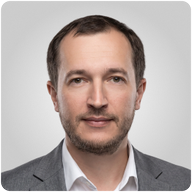
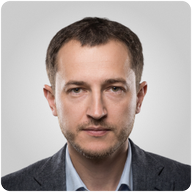
Правки клиента: первое фото Максима, должность Софии, инструкция для Яндекс Почты

diff --git a/podpisi/index.html b/podpisi/index.html
@@ -72,7 +72,7 @@ h2.sec { font: 800 30px/1.1 var(--display); margin: 0 0 6px; }
     <span class="eyebrow">Broccoli Group · email-подпись</span>
     <h1>Установка подписи</h1>
     <p class="lede">Найдите себя в списке, скопируйте подпись и вставьте её в настройках почты.
-      Шаги для Gmail, Outlook и Apple Mail — ниже.</p>
+      Шаги для Gmail, Яндекс Почты, Outlook и Apple Mail — ниже.</p>
     <ul class="steps-mini">
       <li><b>1</b>Скопировать подпись</li>
       <li><b>2</b>Открыть настройки подписи</li>
@@ -81,7 +81,7 @@ h2.sec { font: 800 30px/1.1 var(--display); margin: 0 0 6px; }
   </header>
 
   <div class="people">
-<section class="person"><div class="person-head"><h2>София Кремнева</h2><span>Менеджер проекта</span><button class="copy" type="button" data-slug="sofia-kremneva">Скопировать подпись</button><p class="status" aria-live="polite"></p></div><div class="mail"><div class="sig" id="sig-sofia-kremneva"><div class="fit"><!-- ==== BROCCOLI GROUP · EMAIL SIGNATURE · начало ==== -->
+<section class="person"><div class="person-head"><h2>София Кремнева</h2><span>Менеджер проектов</span><button class="copy" type="button" data-slug="sofia-kremneva">Скопировать подпись</button><p class="status" aria-live="polite"></p></div><div class="mail"><div class="sig" id="sig-sofia-kremneva"><div class="fit"><!-- ==== BROCCOLI GROUP · EMAIL SIGNATURE · начало ==== -->
 <!-- C · Три колонки с разделителями -->
 <table role="presentation" border="0" cellpadding="0" cellspacing="0" width="648" style="width:648px;border-collapse:collapse;border-spacing:0;mso-table-lspace:0pt;mso-table-rspace:0pt;">
   <tr><td colspan="4" class="sig-rule" height="1" style="height:1px;line-height:1px;font-size:1px;border-top:1px solid #DADADA;">&nbsp;</td></tr>
@@ -90,7 +90,7 @@ h2.sec { font: 800 30px/1.1 var(--display); margin: 0 0 6px; }
     <td width="194" valign="middle" style="width:194px;padding:14px 14px 0 12px;">
       <table role="presentation" border="0" cellpadding="0" cellspacing="0" style="border-collapse:collapse;border-spacing:0;mso-table-lspace:0pt;mso-table-rspace:0pt;">
         <tr><td class="sig-n" style="padding:0 0 2px 0;font-family:Georgia,'Times New Roman',serif;font-size:18px;line-height:24px;font-weight:bold;color:#111111;white-space:nowrap;mso-line-height-rule:exactly;">София Кремнева</td></tr>
-        <tr><td class="sig-m" style="padding:0;font-family:Georgia,'Times New Roman',serif;font-size:13px;line-height:18px;color:#6B6B6B;white-space:nowrap;mso-line-height-rule:exactly;">Менеджер проекта</td></tr>
+        <tr><td class="sig-m" style="padding:0;font-family:Georgia,'Times New Roman',serif;font-size:13px;line-height:18px;color:#6B6B6B;white-space:nowrap;mso-line-height-rule:exactly;">Менеджер проектов</td></tr>
       </table>
     </td>
     <td width="256" valign="middle" class="sig-vr" style="width:256px;padding:14px 14px 0 14px;border-left:1px solid #DADADA;"><table role="presentation" border="0" cellpadding="0" cellspacing="0" style="border-collapse:collapse;"><tr><td width="16" valign="middle" style="width:16px;padding:0 8px 6px 0;font-size:0;line-height:0;"><picture><img src="https://nikitamitkin.github.io/broccoli-signature/v3/img-light/icon-phone.png" alt="Телефон" width="16" height="16" border="0" style="display:block;width:16px;min-width:16px;max-width:16px;height:16px;border:0;outline:none;text-decoration:none;"></picture></td><td class="sig-m" valign="middle" style="padding:0 0 6px 0;font-family:Georgia,'Times New Roman',serif;font-size:14px;line-height:20px;color:#6B6B6B;white-space:nowrap;mso-line-height-rule:exactly;"><a href="tel:+79626336891" style="color:#6B6B6B;text-decoration:none;">+7 962 633 68 91</a></td></tr><tr><td width="16" valign="middle" style="width:16px;padding:0 8px 6px 0;font-size:0;line-height:0;"><picture><img src="https://nikitamitkin.github.io/broccoli-signature/v3/img-light/icon-mail.png" alt="Почта" width="16" height="16" border="0" style="display:block;width:16px;min-width:16px;max-width:16px;height:16px;border:0;outline:none;text-decoration:none;"></picture></td><td class="sig-m" valign="middle" style="padding:0 0 6px 0;font-family:Georgia,'Times New Roman',serif;font-size:14px;line-height:20px;color:#6B6B6B;white-space:nowrap;mso-line-height-rule:exactly;"><a href="mailto:sofia.kremneva@broccoli.group" style="color:#6B6B6B;text-decoration:none;">sofia.kremneva@broccoli.group</a></td></tr><tr><td width="16" valign="middle" style="width:16px;padding:0 8px 0px 0;font-size:0;line-height:0;"><picture><img src="https://nikitamitkin.github.io/broccoli-signature/v3/img-light/icon-globe.png" alt="Сайт" width="16" height="16" border="0" style="display:block;width:16px;min-width:16px;max-width:16px;height:16px;border:0;outline:none;text-decoration:none;"></picture></td><td class="sig-m" valign="middle" style="padding:0 0 0px 0;font-family:Georgia,'Times New Roman',serif;font-size:14px;line-height:20px;color:#6B6B6B;white-space:nowrap;mso-line-height-rule:exactly;"><a href="https://broccoli.group/" style="color:#6B6B6B;text-decoration:none;">broccoli.group</a></td></tr></table></td>
@@ -106,7 +106,7 @@ h2.sec { font: 800 30px/1.1 var(--display); margin: 0 0 6px; }
     <td width="194" valign="middle" style="width:194px;padding:14px 14px 0 12px;">
       <table role="presentation" border="0" cellpadding="0" cellspacing="0" style="border-collapse:collapse;border-spacing:0;mso-table-lspace:0pt;mso-table-rspace:0pt;">
         <tr><td class="sig-n" style="padding:0 0 2px 0;font-family:Georgia,'Times New Roman',serif;font-size:18px;line-height:24px;font-weight:bold;color:#111111;white-space:nowrap;mso-line-height-rule:exactly;">София Кремнева</td></tr>
-        <tr><td class="sig-m" style="padding:0;font-family:Georgia,'Times New Roman',serif;font-size:13px;line-height:18px;color:#6B6B6B;white-space:nowrap;mso-line-height-rule:exactly;">Менеджер проекта</td></tr>
+        <tr><td class="sig-m" style="padding:0;font-family:Georgia,'Times New Roman',serif;font-size:13px;line-height:18px;color:#6B6B6B;white-space:nowrap;mso-line-height-rule:exactly;">Менеджер проектов</td></tr>
       </table>
     </td>
     <td width="256" valign="middle" class="sig-vr" style="width:256px;padding:14px 14px 0 14px;border-left:1px solid #DADADA;"><table role="presentation" border="0" cellpadding="0" cellspacing="0" style="border-collapse:collapse;"><tr><td width="16" valign="middle" style="width:16px;padding:0 8px 6px 0;font-size:0;line-height:0;"><picture><source srcset="https://nikitamitkin.github.io/broccoli-signature/v3/img-dark/icon-phone.png" media="(prefers-color-scheme: dark)"><source srcset="https://nikitamitkin.github.io/broccoli-signature/v3/img-light/icon-phone.png" media="(prefers-color-scheme: light)"><img src="https://nikitamitkin.github.io/broccoli-signature/v3/img-light/icon-phone.png" alt="Телефон" width="16" height="16" border="0" style="display:block;width:16px;min-width:16px;max-width:16px;height:16px;border:0;outline:none;text-decoration:none;"></picture></td><td class="sig-m" valign="middle" style="padding:0 0 6px 0;font-family:Georgia,'Times New Roman',serif;font-size:14px;line-height:20px;color:#6B6B6B;white-space:nowrap;mso-line-height-rule:exactly;"><a href="tel:+79626336891" style="color:#6B6B6B;text-decoration:none;">+7 962 633 68 91</a></td></tr><tr><td width="16" valign="middle" style="width:16px;padding:0 8px 6px 0;font-size:0;line-height:0;"><picture><source srcset="https://nikitamitkin.github.io/broccoli-signature/v3/img-dark/icon-mail.png" media="(prefers-color-scheme: dark)"><source srcset="https://nikitamitkin.github.io/broccoli-signature/v3/img-light/icon-mail.png" media="(prefers-color-scheme: light)"><img src="https://nikitamitkin.github.io/broccoli-signature/v3/img-light/icon-mail.png" alt="Почта" width="16" height="16" border="0" style="display:block;width:16px;min-width:16px;max-width:16px;height:16px;border:0;outline:none;text-decoration:none;"></picture></td><td class="sig-m" valign="middle" style="padding:0 0 6px 0;font-family:Georgia,'Times New Roman',serif;font-size:14px;line-height:20px;color:#6B6B6B;white-space:nowrap;mso-line-height-rule:exactly;"><a href="mailto:sofia.kremneva@broccoli.group" style="color:#6B6B6B;text-decoration:none;">sofia.kremneva@broccoli.group</a></td></tr><tr><td width="16" valign="middle" style="width:16px;padding:0 8px 0px 0;font-size:0;line-height:0;"><picture><source srcset="https://nikitamitkin.github.io/broccoli-signature/v3/img-dark/icon-globe.png" media="(prefers-color-scheme: dark)"><source srcset="https://nikitamitkin.github.io/broccoli-signature/v3/img-light/icon-globe.png" media="(prefers-color-scheme: light)"><img src="https://nikitamitkin.github.io/broccoli-signature/v3/img-light/icon-globe.png" alt="Сайт" width="16" height="16" border="0" style="display:block;width:16px;min-width:16px;max-width:16px;height:16px;border:0;outline:none;text-decoration:none;"></picture></td><td class="sig-m" valign="middle" style="padding:0 0 0px 0;font-family:Georgia,'Times New Roman',serif;font-size:14px;line-height:20px;color:#6B6B6B;white-space:nowrap;mso-line-height-rule:exactly;"><a href="https://broccoli.group/" style="color:#6B6B6B;text-decoration:none;">broccoli.group</a></td></tr></table></td>
@@ -225,6 +225,16 @@ h2.sec { font: 800 30px/1.1 var(--display); margin: 0 0 6px; }
           <li>Вставьте подпись в поле справа.</li>
           <li>Ниже выберите её в пунктах <b>Для новых писем</b> и <b>Для ответов</b>.</li>
           <li>В самом низу страницы — <b>Сохранить изменения</b>.</li>
+        </ol>
+      </div>
+      <div class="how-card">
+        <h3>Яндекс Почта</h3>
+        <ol>
+          <li>Шестерёнка на панели слева → <b>Все настройки</b> → <b>Личные данные</b>.</li>
+          <li>В блоке <b>Ваши подписи</b> вставьте подпись в поле.</li>
+          <li>Включите <b>Привязать к адресу</b> и выберите свою почту — подпись будет добавляться сама.</li>
+          <li>Нажмите <b>Добавить подпись</b>.</li>
+          <li>Внизу страницы в <b>Расположение подписи при ответе</b> выберите вариант, где подпись стоит сразу после вашего ответа, — иначе она уедет под всю переписку.</li>
         </ol>
       </div>
       <div class="how-card">
